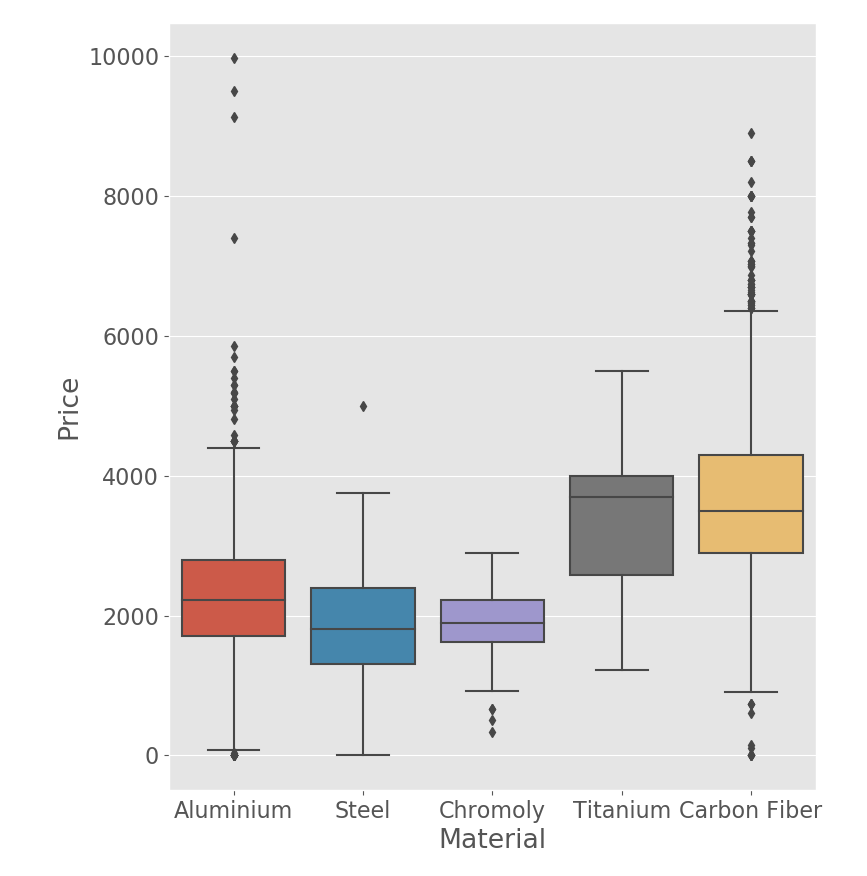
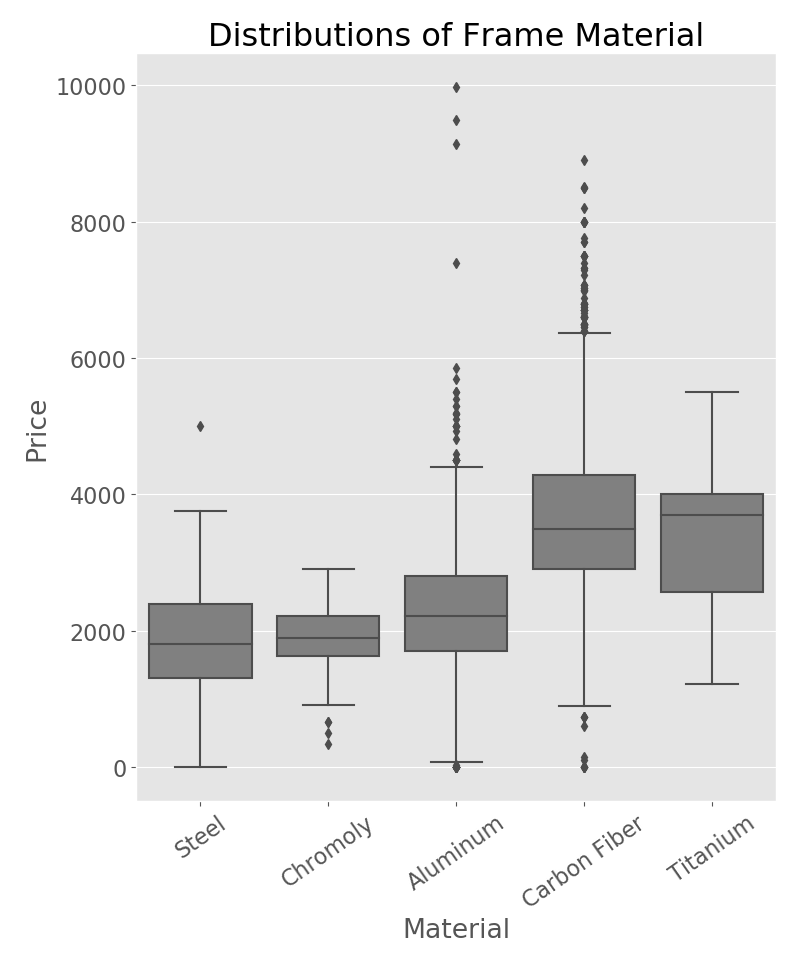
edited fig sizes

diff --git a/src/plots.py b/src/plots.py
@@ -102,7 +102,7 @@ if __name__=='__main__':
 
     # Box Plot of materials
     fig4,ax4 = plt.subplots(figsize=(8,10))
-    sns.boxplot(x='Material',y='Price',data=df,order=['Steel','Chromoly','Aluminum','Carbon Fiber','Titanium'],color=None)
+    sns.boxplot(x='Material',y='Price',data=df,color='grey',order=['Steel','Chromoly','Aluminum','Carbon Fiber','Titanium'])
     ax4.set_title('Distributions of Frame Material')
     plt.xticks(rotation=35)
 

diff --git a/README.md b/README.md
@@ -49,5 +49,5 @@ I applied the Central Limit Theroem and generated this plot
 </p>
 
 <p align="center">
-  <img src="Images/boxplot_material.png" >
+  <img src="Images/boxplot_material.png" width=600 height=750  >
 </p>
